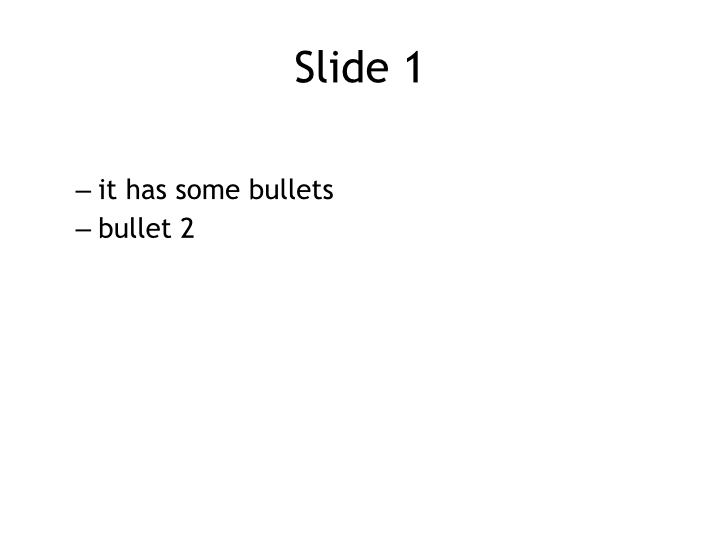
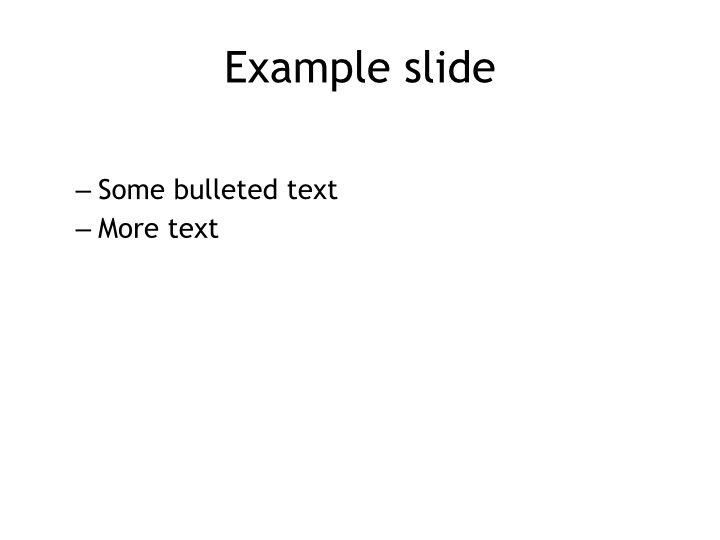
Add test

Changed region(s): [[0.1222, 0.3259, 0.4889, 0.4444], [0.3056, 0.0889, 0.7028, 0.1778]]

diff --git a/README.rst b/README.rst
@@ -23,14 +23,13 @@ Input:
 
 .. code-block:: rst
 
-    Slide 1
-    =======
+    Example slide
+    =============
 
-    - it has some bullets
-    - bullet 2
+    - Some bulleted text
+    - More text
 
 Output:
-
 
 +----------------------------------------------------------------------------------------+
 | .. image:: https://raw.githubusercontent.com/myint/rst2pptx/master/examples/output.png |

diff --git a/test/bullets.rst b/test/bullets.rst
@@ -1,0 +1,11 @@
+Example slide
+=============
+
+- Some bulleted text
+- More text
+
+Second slide
+============
+
+- Text on second slide
+- More text on second slide
